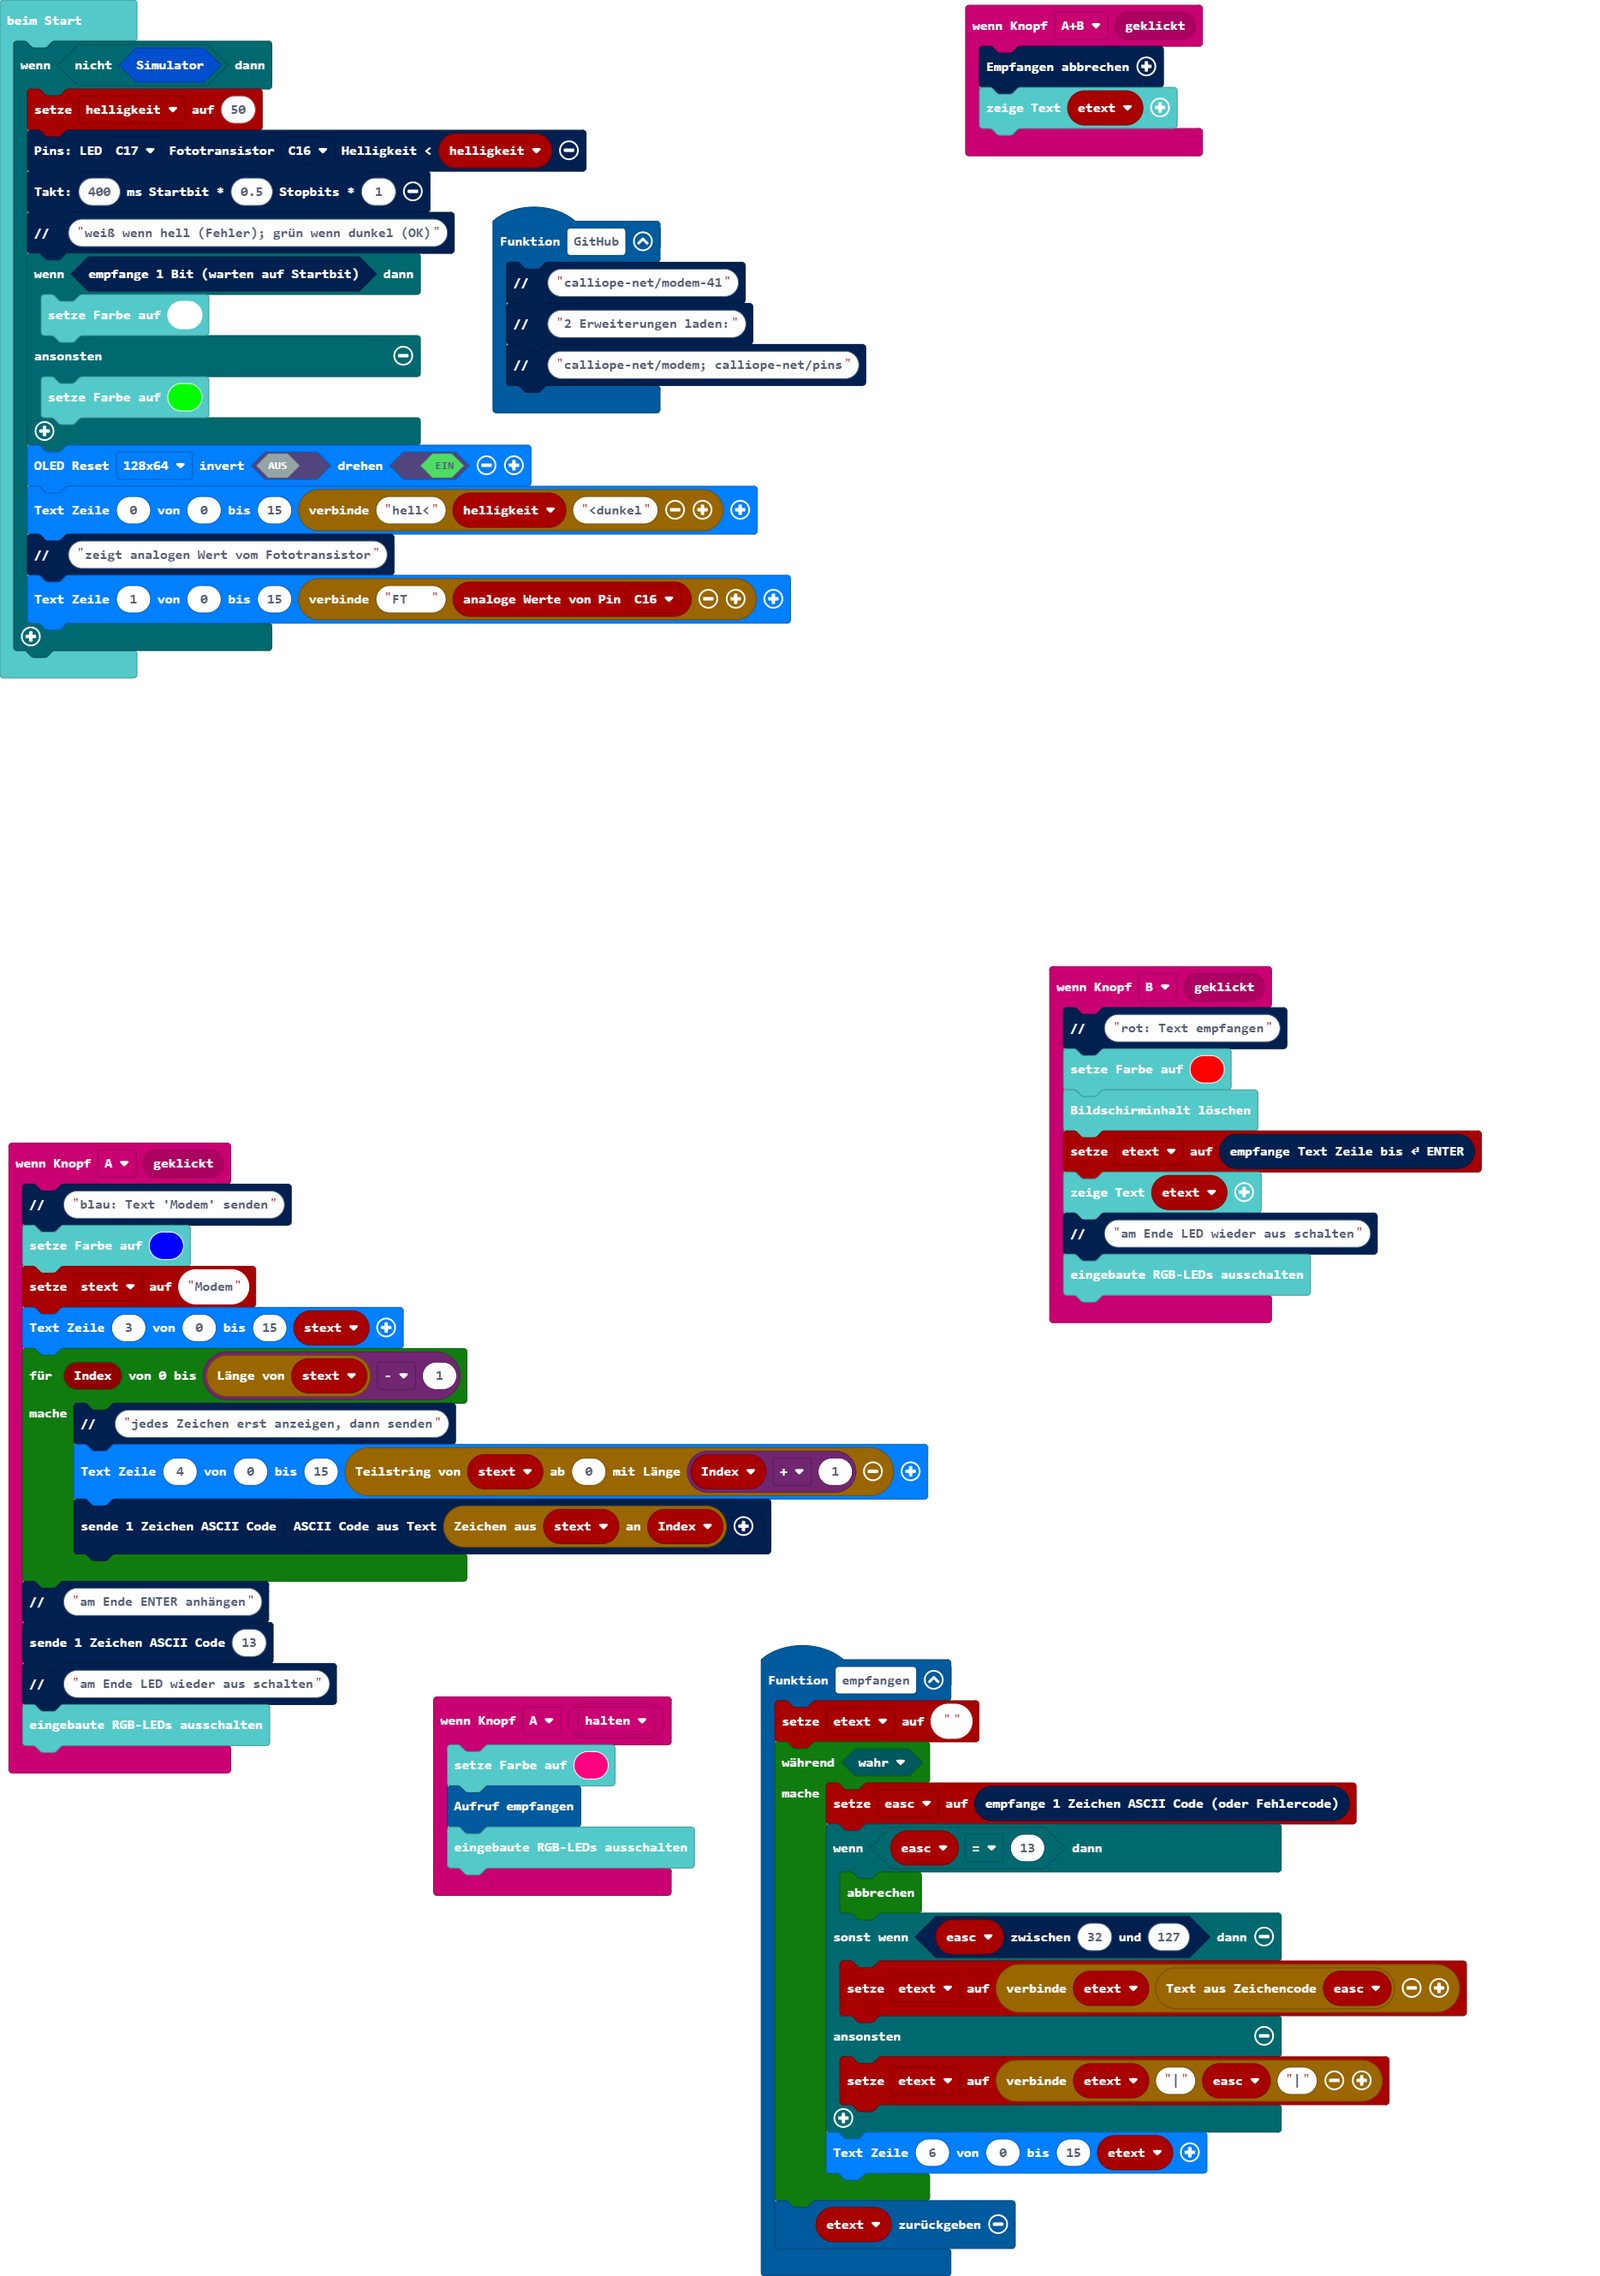
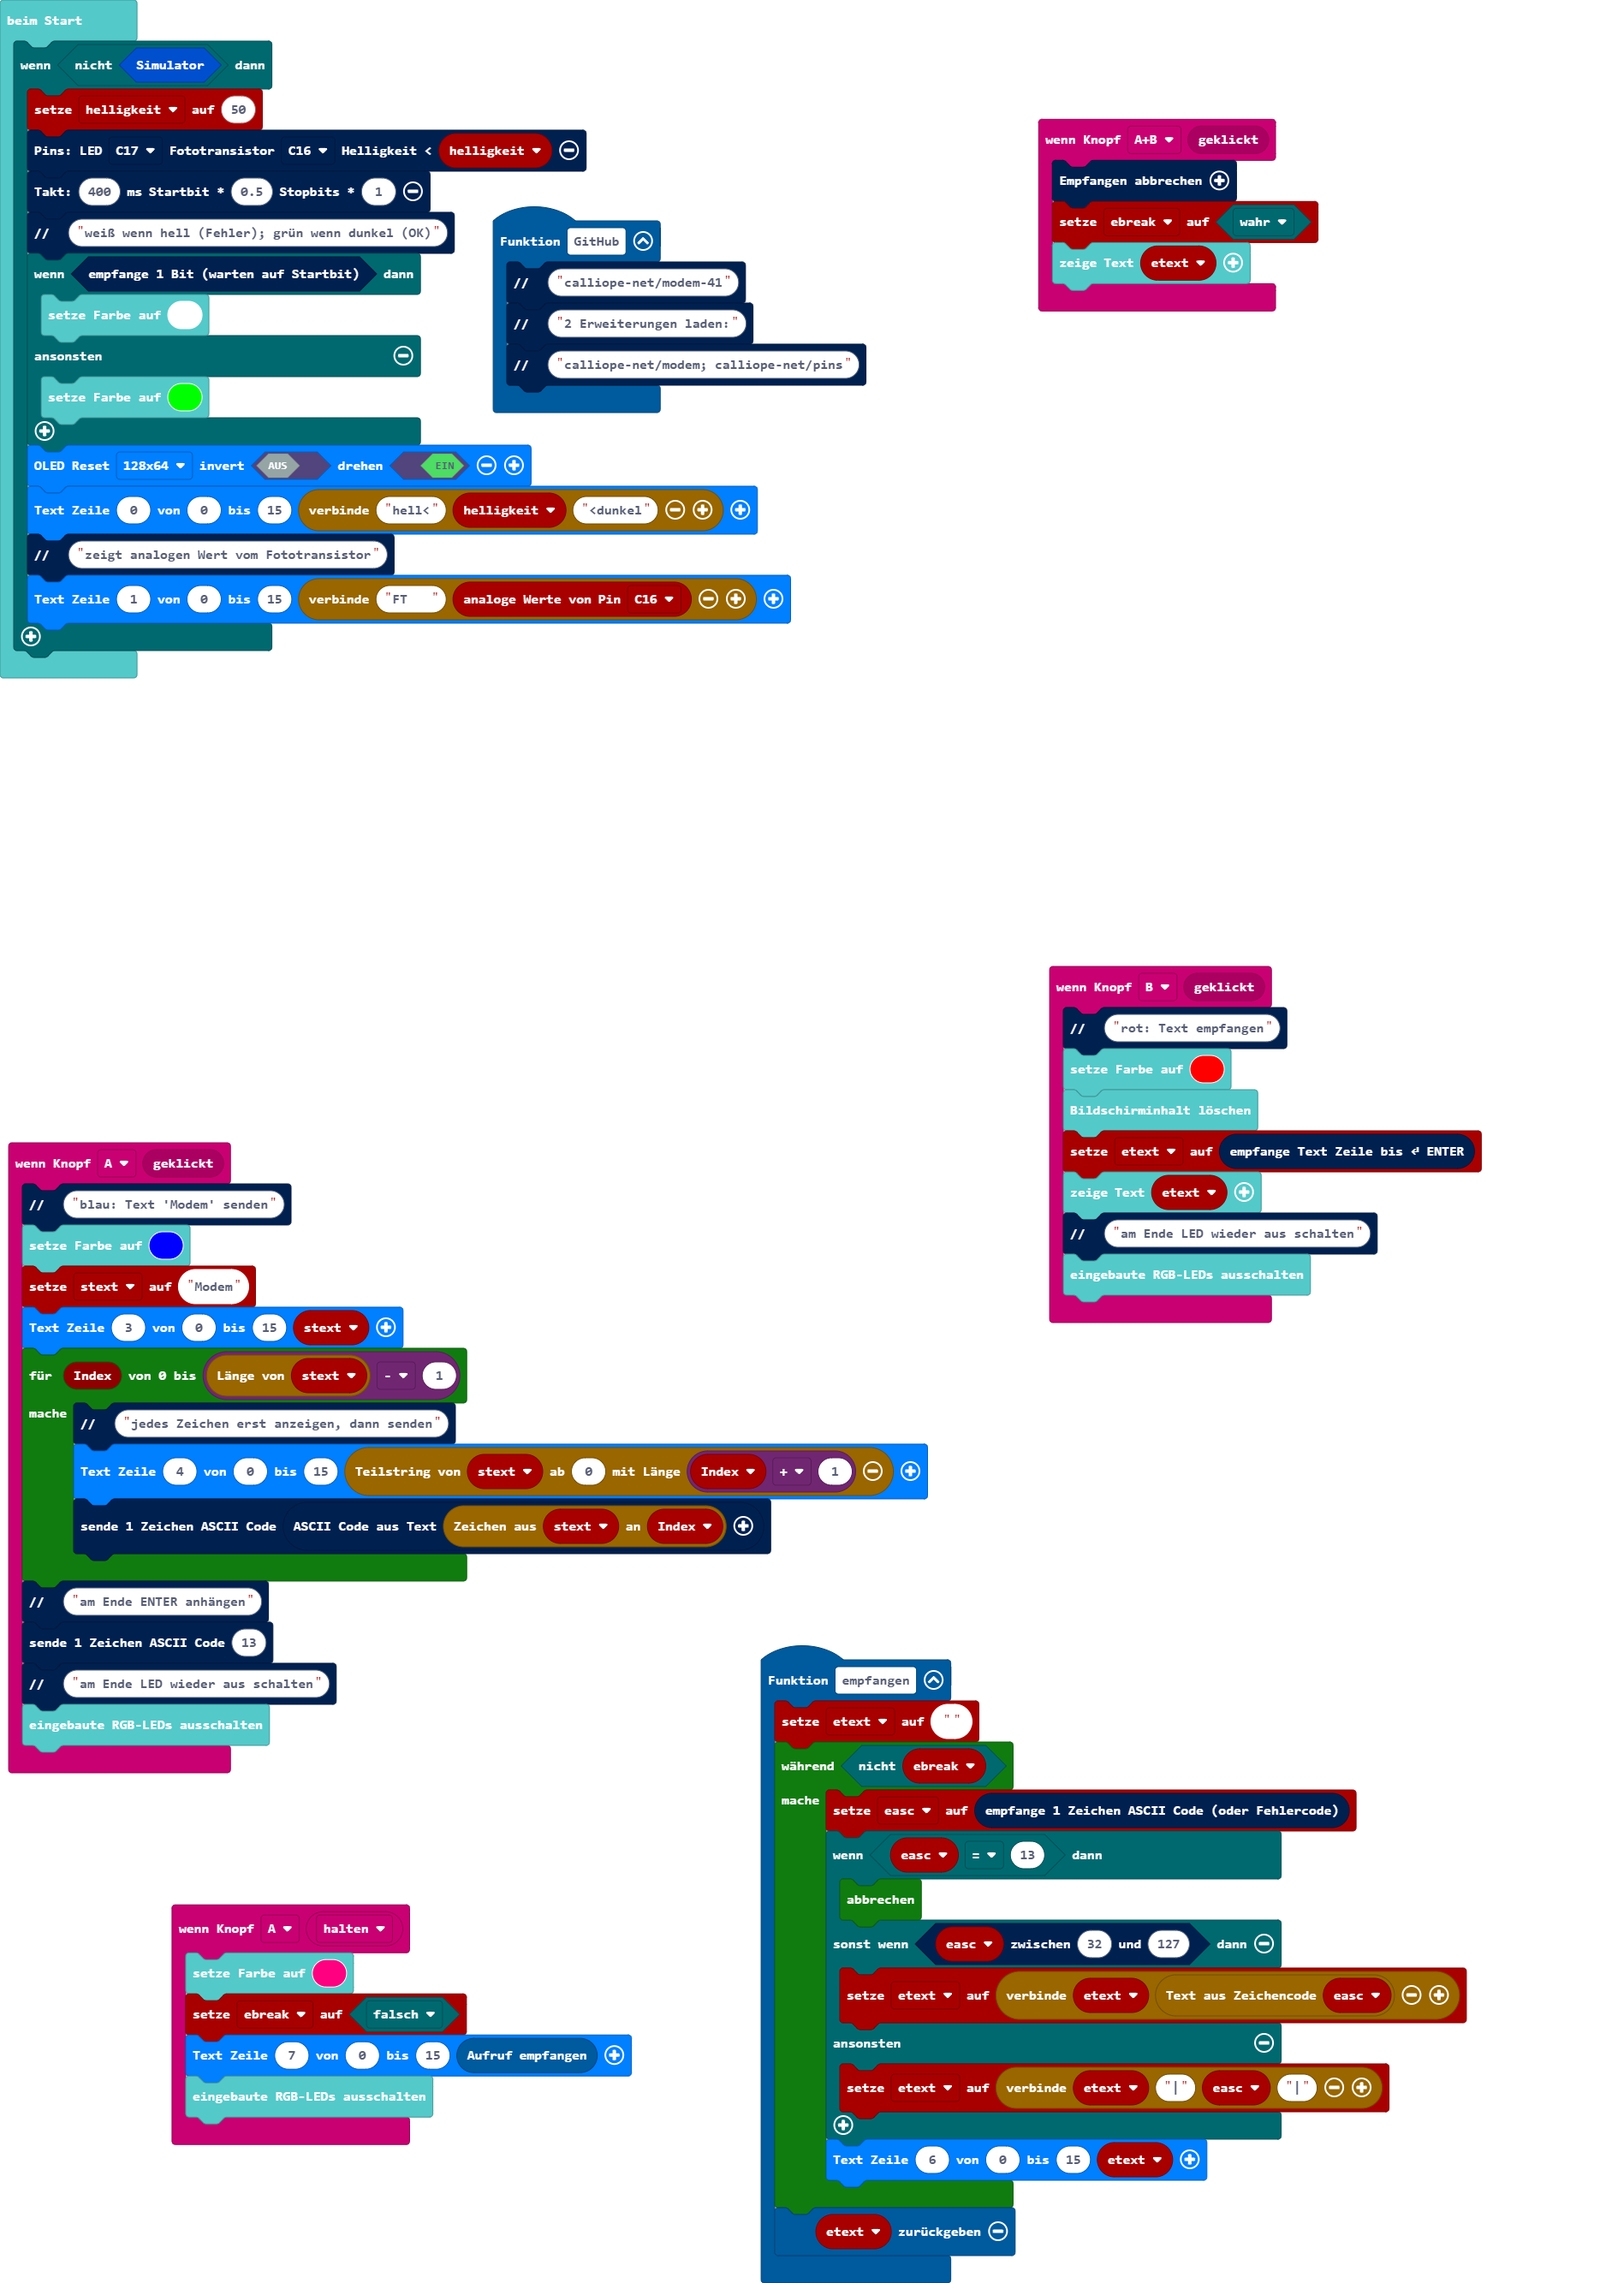
Aktualisiere main.blocks, main.ts

diff --git a/main.ts b/main.ts
@@ -20,7 +20,7 @@ input.onButtonEvent(Button.A, input.buttonEventClick(), function () {
 })
 function empfangen () {
     etext = ""
-    while (true) {
+    while (!(ebreak)) {
         easc = modem.empfange_1zeichen()
         if (easc == 13) {
             break;
@@ -35,6 +35,7 @@ function empfangen () {
 }
 input.onButtonEvent(Button.AB, input.buttonEventClick(), function () {
     modem.empfang_abbrechen()
+    ebreak = true
     basic.showString(etext)
 })
 input.onButtonEvent(Button.B, input.buttonEventClick(), function () {
@@ -48,10 +49,12 @@ input.onButtonEvent(Button.B, input.buttonEventClick(), function () {
 })
 input.onButtonEvent(Button.A, ButtonEvent.Hold, function () {
     basic.setLedColor(0xff0080)
-    empfangen()
+    ebreak = false
+    pins.oled_write_text(7, 0, 15, empfangen())
     basic.turnRgbLedOff()
 })
 let easc = 0
+let ebreak = false
 let etext = ""
 let stext = ""
 let helligkeit = 0
